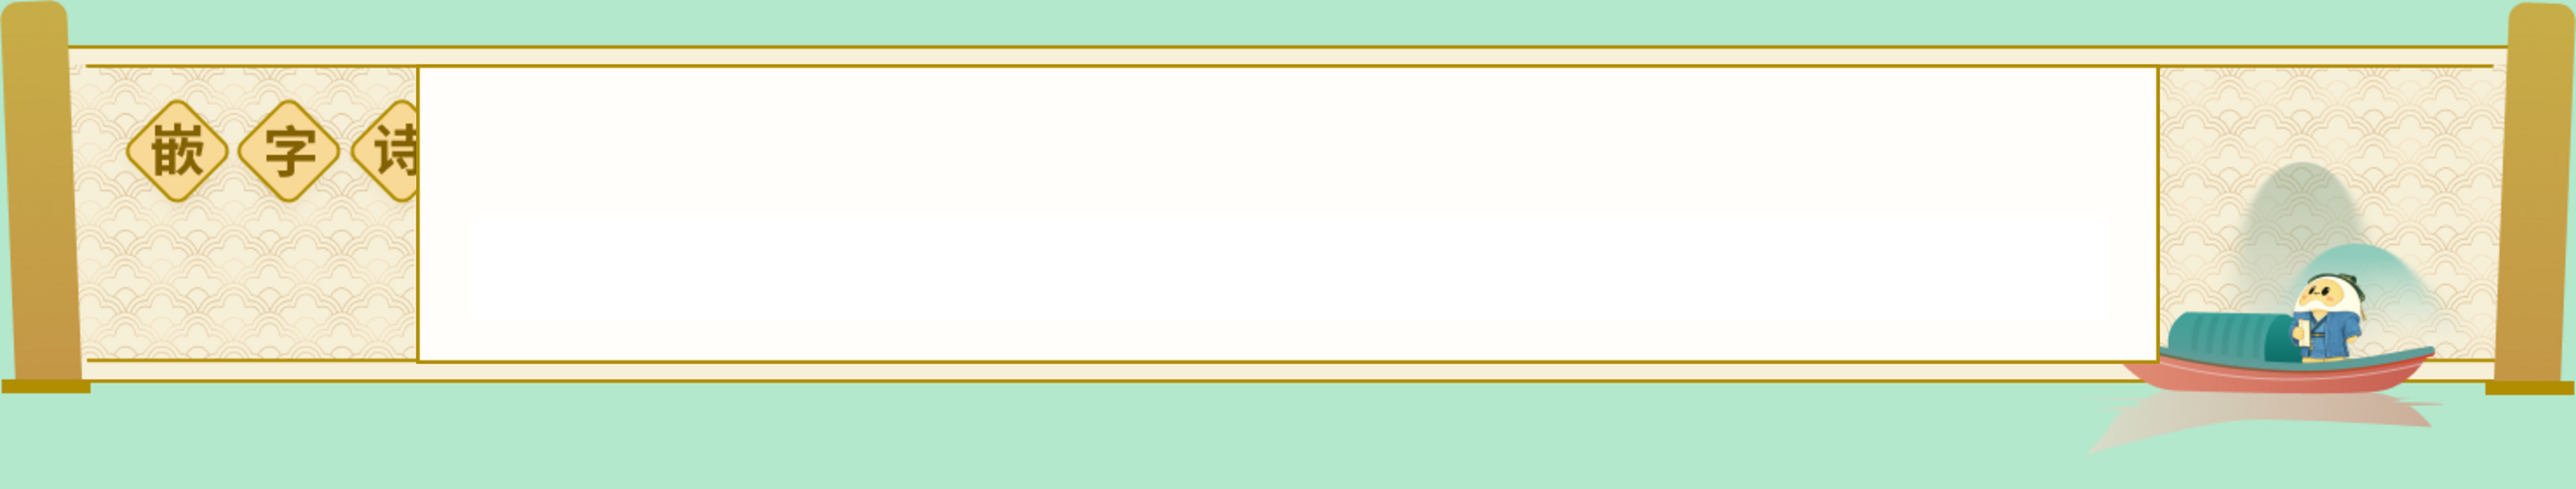
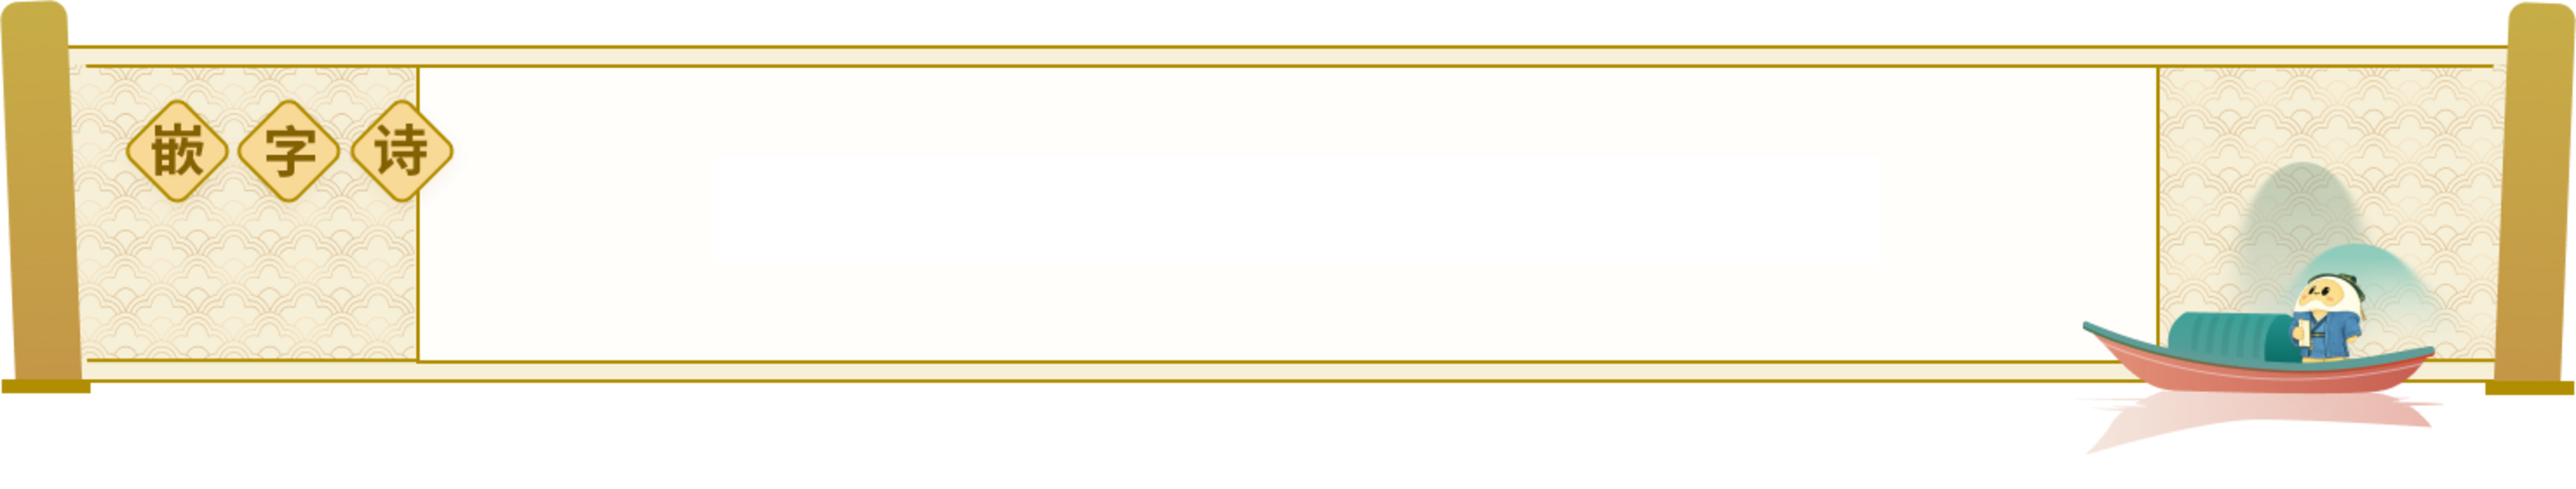
fix(naming): 嵌字诗用 contentsOnly 透明导出,精确挖诗句区不伤装饰
根因:get_screenshot 烤入画板绿底,去绿必伤内部倒影。
改用 contentsOnly 导出透明完整图(卷轴/角标/小船/倒影/底纹全保留,
无绿底);挖空只在诗句文字精确 x 区间(避开左侧角标、右侧小船);
DOM 诗句居中田字格。消除半截重影、绿边、倒影缺失。

diff --git a/v1/naming/style.css b/v1/naming/style.css
@@ -283,8 +283,8 @@ img{user-select:none}
 /* ===== 嵌字诗（卷轴装饰=整图 poem-scroll.png 截图：卷轴/角标/IP/田字格全在图里；
    诗句=DOM文字叠在田字格区，可改自适应） ===== */
 .rs-poem{position:relative;margin-top:6px;width:1479px;height:281px;
-  background:url("assets/poem-scroll.png") center/100% 100% no-repeat}
-.rs-poem-grid{position:absolute;left:239px;top:98px;width:1001px;height:172px;
+  background:url("assets/poem-scroll.png?v=1780729012") center/100% 100% no-repeat}
+.rs-poem-grid{position:absolute;left:239px;top:37px;width:1001px;height:172px;
   display:grid;grid-template-columns:1fr 1fr;align-content:center;justify-items:center;gap:14px 0;z-index:2}
 .rs-poem-grid .ln{font-size:36px;line-height:46px;color:rgba(0,0,0,.8);font-family:var(--font-cn);font-weight:700;letter-spacing:2px;white-space:nowrap}
 .rs-poem-grid .ln.l{color:var(--rs-poem-l)}
